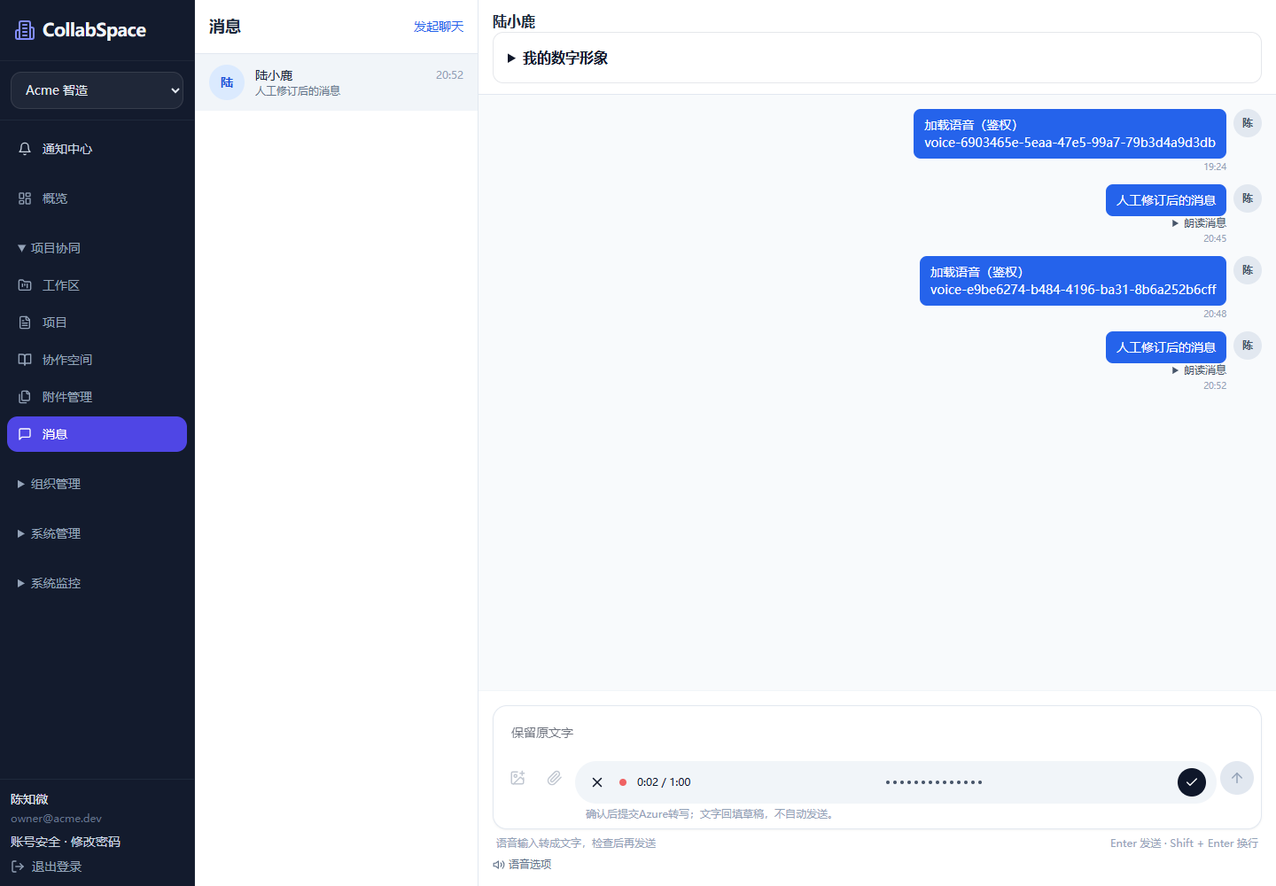
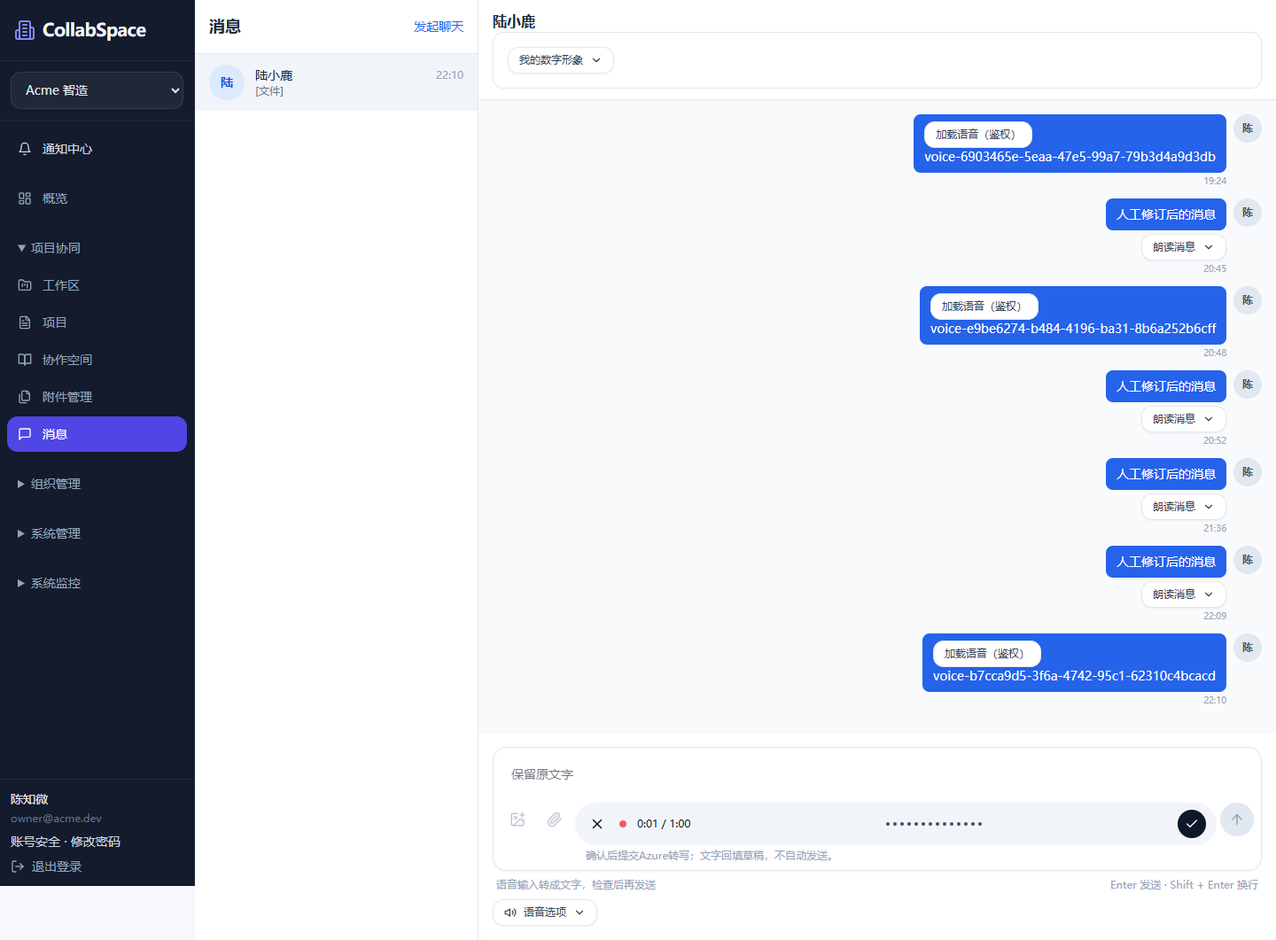
feat: make collaboration actions explicit buttons and remove inactive placeholders

diff --git a/apps/web/src/components/voice/VoiceTools.tsx b/apps/web/src/components/voice/VoiceTools.tsx
@@ -2,6 +2,8 @@
 import {useEffect,useRef,useState} from 'react';
 import {api} from '@/lib/api';
 import {useAuthStore} from '@/store/auth';
+import {Button,inputCls} from '@/components/ui';
+import {Disclosure} from '@/components/disclosure';
 import {toWav} from './audio';
 
 type Scope={projectId?:string;conversationId?:string};
@@ -75,16 +77,16 @@ function VoiceSession({scope,text,onTranscript,onSendAudio,active,onBusyChange}:
  const browserSpeak=()=>{stopPlayback();const u=new SpeechSynthesisUtterance(text.slice(0,4000));u.lang=language;u.onend=()=>setSpeaking(false);u.onerror=()=>{setSpeaking(false);setError('系统朗读失败');};setSpeaking(true);window.speechSynthesis.speak(u);};
  const sendAudio=async()=>{if(!blob||!onSendAudio||busy)return;const recordingBlob=blob;setBusy(true);setError('');const n=epoch.current;try{const wav=await toWav(blob);if(!alive.current||n!==epoch.current)return;await onSendAudio(new File([wav],'语音消息.wav',{type:'audio/wav'}));if(alive.current)setBlob(current=>current===recordingBlob?null:current);}catch(e){if(alive.current&&n===epoch.current)setError(errorText(e));}finally{if(alive.current&&n===epoch.current)setBusy(false);}};
  return <section aria-label="语音工具" className="space-y-2 rounded-lg border border-slate-200 bg-slate-50 p-3 text-sm text-slate-700 [&_button:disabled]:cursor-not-allowed [&_button:disabled]:opacity-40">
-  <div className="flex flex-wrap items-center gap-3"><label>语音语言 <select aria-label="语音语言" value={language} disabled={busy||recording} onChange={e=>{localeTouched.current=true;setLanguage(e.target.value);}}><option value="zh-CN">中文</option><option value="en-US">English</option></select></label>
-  {onTranscript&&<button type="button" disabled={!active||busy||!supported} onClick={recording?()=>release():()=>void start()}>{recording?'结束录音':'录音'}（最多60秒）</button>}
-  <button type="button" disabled={!active||busy||recording||!text.trim()||text.length>4000||!ready} onClick={()=>void run('TTS')}>生成语音朗读</button>
-  <button type="button" disabled={!active||busy||!text.trim()||typeof window==='undefined'||!('speechSynthesis' in window)} onClick={browserSpeak}>系统朗读（降级）</button>
-  <button type="button" disabled={!busy&&!speaking&&!recording} onClick={cancel}>停止语音</button></div>
+  <div className="flex flex-wrap items-center gap-3"><label>语音语言 <select className={inputCls+' mt-1'} aria-label="语音语言" value={language} disabled={busy||recording} onChange={e=>{localeTouched.current=true;setLanguage(e.target.value);}}><option value="zh-CN">中文</option><option value="en-US">English</option></select></label>
+  {onTranscript&&<Button variant="secondary" size="sm" type="button" disabled={!active||busy||!supported} onClick={recording?()=>release():()=>void start()}>{recording?'结束录音':'录音'}（最多60秒）</Button>}
+  {ready&&<Button variant="secondary" size="sm" type="button" disabled={!active||busy||recording||!text.trim()||text.length>4000} onClick={()=>void run('TTS')}>生成语音朗读</Button>}
+  <Button variant="secondary" size="sm" type="button" disabled={!active||busy||!text.trim()||typeof window==='undefined'||!('speechSynthesis' in window)} onClick={browserSpeak}>系统朗读（降级）</Button>
+  {(busy||speaking||recording)&&<Button variant="secondary" size="sm" type="button" onClick={cancel}>停止语音</Button>}</div>
   <p className="text-xs text-slate-500">{ready?'Azure语音已配置；点击转写/合成才提交内容。':'Azure语音未配置，转写与云合成不可用。'}录音先留在本页；转写可修改后手动发送。系统朗读可能使用浏览器在线服务，无精确嘴型。</p>
-  {url&&<div className="flex flex-wrap items-center gap-3"><audio ref={previewAudio} aria-label="录音试听" src={url} controls preload="metadata"/><button type="button" disabled={busy||!ready} onClick={()=>void run('STT')}>转写到正文</button>{onSendAudio&&<button type="button" disabled={busy} onClick={()=>void sendAudio()}>发送语音和当前文字</button>}<button type="button" disabled={busy} onClick={()=>{setBlob(null);pending.current=null;}}>丢弃录音</button></div>}
+  {url&&<div className="flex flex-wrap items-center gap-3"><audio ref={previewAudio} aria-label="录音试听" src={url} controls preload="metadata"/>{ready&&<Button variant="secondary" size="sm" type="button" disabled={busy} onClick={()=>void run('STT')}>转写到正文</Button>}{onSendAudio&&<Button variant="secondary" size="sm" type="button" disabled={busy} onClick={()=>void sendAudio()}>发送语音和当前文字</Button>}<Button variant="secondary" size="sm" type="button" disabled={busy} onClick={()=>{setBlob(null);pending.current=null;}}>丢弃录音</Button></div>}
   {busy&&<p role="status">语音处理中，请勿重复提交…</p>}{error&&<p role="alert" className="text-red-700">{error}</p>}
-  {error&&blob&&!busy&&<button type="button" onClick={()=>{pending.current=null;setError('已允许新建编号，再点击转写；可能产生新的供应商费用。');}}>已核查上次结果，允许新建转写请求</button>}
-  <details><summary className="cursor-pointer text-xs">语音任务与恢复</summary><button type="button" onClick={()=>void api.get('/voice/jobs',{params:scope}).then(r=>setHistory(r.data)).catch(()=>setError('任务记录加载失败'))}>刷新语音任务</button><p className="text-xs">任务保留24小时。UNKNOWN需先核查，不自动重试；刷新后原始本地录音不恢复。</p>{history.map(j=><div key={j.id} className="break-all text-xs">{j.kind} · {j.status} · {j.id}{j.text&&onTranscript&&<button type="button" onClick={()=>onTranscript(j.text)}>恢复转写文字</button>}</div>)}</details>
+  {error&&blob&&!busy&&<Button variant="secondary" size="sm" type="button" onClick={()=>{pending.current=null;setError('已允许新建编号，再点击转写；可能产生新的供应商费用。');}}>已核查上次结果，允许新建转写请求</Button>}
+  <Disclosure title="语音任务与恢复"><Button variant="secondary" size="sm" type="button" onClick={()=>void api.get('/voice/jobs',{params:scope}).then(r=>setHistory(r.data)).catch(()=>setError('任务记录加载失败'))}>刷新语音任务</Button><p className="text-xs">任务保留24小时。UNKNOWN需先核查，不自动重试；刷新后原始本地录音不恢复。</p>{history.map(j=><div key={j.id} className="break-all text-xs">{j.kind} · {j.status} · {j.id}{j.text&&onTranscript&&<Button variant="secondary" size="sm" type="button" onClick={()=>onTranscript(j.text)}>恢复转写文字</Button>}</div>)}</Disclosure>
  </section>;
 }
 
@@ -94,5 +96,5 @@ export function PrivateAudio({attachmentId}:{attachmentId:string}){
  useEffect(()=>{generation.current++;setUrl('');return()=>{generation.current++;};},[attachmentId,org]);
  useEffect(()=>()=>{if(url)URL.revokeObjectURL(url);},[url]);
  const load=async()=>{const n=generation.current;try{const r=await api.get(`/messages/attachments/${attachmentId}/download`,{responseType:'blob'});if(n===generation.current)setUrl(URL.createObjectURL(r.data));}catch{setError('无法加载语音，请检查权限后重试');}};
- return <div>{url?<audio aria-label="语音消息" src={url} controls/>:<button type="button" onClick={()=>void load()}>加载语音（鉴权）</button>}{error&&<p role="alert">{error}</p>}</div>;
+ return <div>{url?<audio aria-label="语音消息" src={url} controls/>:<Button variant="secondary" size="sm" type="button" onClick={()=>void load()}>加载语音（鉴权）</Button>}{error&&<p role="alert">{error}</p>}</div>;
 }

diff --git a/apps/web/src/components/documents/AssistantPanel.tsx b/apps/web/src/components/documents/AssistantPanel.tsx
@@ -5,6 +5,7 @@ import { useAuthStore } from '@/store/auth';
 import { Modal,Button,Card,inputCls } from '@/components/ui';
 import {FilePicker} from '@/components/file-picker';
 import {assistantTools} from './assistant-tools';
+import {Disclosure} from '@/components/disclosure';
 import {Sparkles} from 'lucide-react';
 import {VoiceTools} from '@/components/voice/VoiceTools';
 import {PersonaPanel} from '@/components/personas/PersonaPanel';
@@ -120,16 +121,16 @@ function AssistantWorkspace({org,user,initialMode,projectId,active,onProjectChan
     {project&&<VoiceTools scope={{projectId:project}} text={text} active={active} onTranscript={value=>{reset();setText(value);}}/>}
     <div className="flex flex-wrap items-center gap-3"><Button disabled={!project||text.trim().length<(translating?1:50)||(translating&&text.length>1200)||busy||mailBusy||configured!==true} onClick={generate}><Sparkles size={16}/>{busy?'处理中…':'生成'}</Button><span className="text-xs text-slate-500">{text.length}字；{translating&&text.length>1200?'超过翻译上限，请分段；':''}无自动重试</span></div>
     <p className="text-xs leading-5 text-slate-500">仅点击生成时调用 DeepSeek。{translating?'翻译每次最多1200字。':'摘要、行动项与邮件使用前6000字。'}生成前请核对资料。</p>
-    <details className="text-xs leading-5 text-slate-500"><summary className="cursor-pointer">用量、隐私与朗读说明</summary><p className="mt-2">摘要/行动项/邮件输出上限700 token；翻译1200 token。每个组织用户每小时10次，相同内容15分钟内复用，无自动付费重试。生成时将文本发送至DeepSeek。朗读前4000字，不消耗模型 token；系统语音可能使用浏览器供应商的在线服务。</p></details>
+    <Disclosure title="用量、隐私与朗读说明" className="text-xs leading-5 text-slate-500"><p className="mt-2">摘要/行动项/邮件输出上限700 token；翻译1200 token。每个组织用户每小时10次，相同内容15分钟内复用，无自动付费重试。生成时将文本发送至DeepSeek。朗读前4000字，不消耗模型 token；系统语音可能使用浏览器供应商的在线服务。</p></Disclosure>
     </Card>
     <div className="min-w-0 space-y-4">
     <PersonaPanel active={active}/>
-    {runtimeAvailable&&<div className="space-y-2"><p className="text-xs text-slate-500">受限协作助手运行时：只读项目事实与资料生成；状态保留15分钟，服务重启后不可恢复。不会自动发邮件。</p>{runEvent&&<AgentPersona key={runEvent.runId} name="协作助手" event={runEvent} skill={runSkill} onStopSpeech={stop}/>}<button type="button" className={button} disabled={!busy||!runId.current} onClick={()=>void cancelRun()}>取消当前任务</button></div>}
+    {runtimeAvailable&&<div className="space-y-2"><p className="text-xs text-slate-500">受限协作助手运行时：只读项目事实与资料生成；状态保留15分钟，服务重启后不可恢复。不会自动发邮件。</p>{runEvent&&<AgentPersona key={runEvent.runId} name="协作助手" event={runEvent} skill={runSkill} onStopSpeech={speaking?stop:undefined}/>}{busy&&runId.current&&<Button type="button" variant="secondary" onClick={()=>void cancelRun()}>取消当前任务</Button>}</div>}
     {error&&<p role="alert" className="text-red-700">{error}</p>}{info&&<p role="status" className="text-sm text-slate-600">{info}</p>}
-    {!result&&mode!=='email'&&<Card className="flex min-h-80 flex-col items-center justify-center gap-3 p-8 text-center"><Sparkles size={32} className="text-indigo-300"/><h3 className="font-semibold">生成结果将显示在这里</h3><p className="text-sm text-slate-500">上传或粘贴资料，点击生成。你可以编辑、复制和朗读结果。</p></Card>}
+
     {(result||mode==='email')&&<section className="space-y-3 rounded-xl border bg-white p-5"><h2 className="font-semibold">{mode==='email'?'邮件草稿（也可直接编写）':'生成结果'}</h2><label className="block">可修改结果<textarea aria-label="可修改结果" className={cls} disabled={mailBusy} rows={9} maxLength={10000} value={result} onChange={e=>{stop();setResult(e.target.value);}}/></label>
       {project&&<VoiceTools scope={{projectId:project}} text={result} active={active&&!mailBusy} onTranscript={value=>{stop();setResult(value);}}/>}
-      <div className="flex flex-wrap gap-3"><button className={button} disabled={!result.trim()} onClick={async()=>{try{await navigator.clipboard.writeText(result);setInfo('已复制');}catch{setError('复制失败，请选中文字手动复制');}}}>复制</button><button className={button} disabled={!speechAvailable||!result.trim()} onClick={speaking?()=>{if(window.speechSynthesis.paused)window.speechSynthesis.resume();else window.speechSynthesis.pause();}:speak}>{speaking?'暂停 / 继续朗读':'朗读结果'}</button><button className={button} disabled={!speaking} onClick={stop}>停止朗读</button></div>
+      <div className="flex flex-wrap gap-3"><button className={button} disabled={!result.trim()} onClick={async()=>{try{await navigator.clipboard.writeText(result);setInfo('已复制');}catch{setError('复制失败，请选中文字手动复制');}}}>复制</button><button className={button} disabled={!speechAvailable||!result.trim()} onClick={speaking?()=>{if(window.speechSynthesis.paused)window.speechSynthesis.resume();else window.speechSynthesis.pause();}:speak}>{speaking?'暂停 / 继续朗读':'朗读结果'}</button>{speaking&&<Button variant="secondary" onClick={stop}>停止朗读</Button>}</div>
       {mode==='email'&&<form className="space-y-3 border-t pt-4" onSubmit={e=>{e.preventDefault();const hash=JSON.stringify([project,to.trim(),subject.trim(),result.trim()]);if(mailUncertain&&mailIntent.current?.hash!==hash){setError('上次发送结果待核查，请先刷新记录；如需重试，请恢复原收件人、主题和正文，勿新建重复邮件。');return;}if(mailIntent.current?.hash!==hash)mailIntent.current={hash,id:crypto.randomUUID()};setPreview({to:to.trim(),subject:subject.trim(),text:result.trim(),projectId:project,requestId:mailIntent.current.id});}}><label className="block">收件人<input className={cls} disabled={mailBusy} type="email" required value={to} onChange={e=>setTo(e.target.value)}/></label><label className="block">主题<input className={cls} disabled={mailBusy} required maxLength={160} value={subject} onChange={e=>setSubject(e.target.value)}/></label><div className="flex flex-wrap gap-3"><button className={button} type="submit" disabled={!project||!result.trim()||!mailReady||mailBusy}>预览并发送邮件</button><button className={button} type="button" disabled={!project} onClick={()=>void loadHistory()}>刷新发送记录</button></div><p className="text-xs text-slate-500">{mailReady?'使用现有Resend服务，需有项目写入及邀请发送权限；每小时最多20封。':'未配置真实邮件服务，当前不能发信。'} 发送记录不保存收件人和正文；结果不确定时保留相同编号重试，不自动重发。</p></form>}
     </section>}
     {history.length>0&&<section className="rounded-xl border bg-white p-4"><h2 className="font-semibold">我的发送记录</h2>{history.map(r=><p className="break-all text-sm" key={r.id}>{r.id}：{r.status==='ACCEPTED'?'服务商已受理，尚不代表送达':r.status==='UNKNOWN'?'结果待核查，请勿重复新建':'处理中或中断待核查'} {r.provider_id||''}</p>)}</section>}

diff --git a/apps/web/src/components/personas/PersonaPanel.tsx b/apps/web/src/components/personas/PersonaPanel.tsx
@@ -1,6 +1,9 @@
 'use client';
 import {useEffect,useRef,useState} from 'react';
 import dynamic from 'next/dynamic';
+import {Button,inputCls} from '@/components/ui';
+import {Disclosure} from '@/components/disclosure';
+import {FilePicker} from '@/components/file-picker';
 import {api} from '@/lib/api';
 import {useAuthStore} from '@/store/auth';
 const AvatarPreview=dynamic(()=>import('./AvatarPreview'),{ssr:false});
@@ -9,16 +12,16 @@ export function PersonaPanel({active=true}:{active?:boolean}){
  return <PersonaSession key={`${org}:${user}`} active={active}/>;
 }
 function PersonaSession({active}:{active:boolean}){
- const [open,setOpen]=useState(false),[style,setStyle]=useState('cartoon'),[language,setLanguage]=useState('zh-CN'),[notice,setNotice]=useState(''),[model,setModel]=useState(''),[speaking,setSpeaking]=useState(false);
- const edited=useRef(false);
- useEffect(()=>{const c=new AbortController();void api.get('/voice/persona',{signal:c.signal}).then(r=>{if(!c.signal.aborted&&!edited.current){setStyle(r.data.style);setLanguage(r.data.locale);}}).catch(()=>{});return()=>c.abort();},[]);
+ const [open,setOpen]=useState(false),[language,setLanguage]=useState('zh-CN'),[notice,setNotice]=useState(''),[model,setModel]=useState(''),[speaking,setSpeaking]=useState(false);
+ const edited=useRef(false),savedStyle=useRef('cartoon');
+ useEffect(()=>{const c=new AbortController();void api.get('/voice/persona',{signal:c.signal}).then(r=>{if(!c.signal.aborted){savedStyle.current=r.data.style;if(!edited.current)setLanguage(r.data.locale);}}).catch(()=>{});return()=>c.abort();},[]);
  useEffect(()=>()=>{if(model)URL.revokeObjectURL(model);},[model]);
  useEffect(()=>{if(!active)setSpeaking(false);},[active]);
- const save=async()=>{try{await api.put('/voice/persona',{style,locale:language});setNotice('已保存当前组织的个人偏好；不会改变身份或权限');}catch{setNotice('保存失败，请检查数据库迁移或网络');}};
- return <details open={open} onToggle={e=>setOpen(e.currentTarget.open)} className="rounded-xl border bg-white p-4"><summary className="cursor-pointer font-semibold">我的数字形象</summary>{open&&<div className="mt-3 space-y-3">
-  <p className="text-xs text-slate-500">本人身份 · 卡通与真人为外观偏好；AI身份由运行时另行声明。</p>
-  <div className="flex flex-wrap gap-3"><label>风格 <select aria-label="形象风格" value={style} onChange={e=>{edited.current=true;setStyle(e.target.value);setSpeaking(false);}}><option value="cartoon">3D卡通</option><option value="realistic">真人风格（待配置）</option></select></label><label>默认语言 <select aria-label="形象默认语言" value={language} onChange={e=>{edited.current=true;setLanguage(e.target.value);}}><option value="zh-CN">中文</option><option value="en-US">English</option></select></label><button type="button" onClick={()=>void save()}>保存形象偏好</button></div>
-  {style==='cartoon'?<><AvatarPreview active={active&&open} speaking={speaking} vrmUrl={model||undefined}/><p className="text-xs">内置原创几何人物；可本地预览你有使用权的VRM模型，文件不上传。云语音播放时按音量驱动嘴部，不是精确嘴型。</p><label className="block text-xs">预览VRM模型 <input aria-label="预览VRM模型" type="file" accept=".vrm" onChange={e=>{const f=e.target.files?.[0];if(f){if(f.size>10*1024*1024){setNotice('模型最大10MB');return;}setModel(URL.createObjectURL(f));}e.target.value='';}}/></label><button type="button" onClick={()=>setSpeaking(!speaking)}>{speaking?'停止动作预览':'预览讲话动作（无音频）'}</button></>:<p role="status" className="rounded-lg bg-amber-50 p-3 text-sm">真人服务尚未配置，当前不能生成真人视频。</p>}
-  <p className="text-xs text-slate-500">Agent形象：尚未启用。</p>{notice&&<p role="status">{notice}</p>}
- </div>}</details>;
+ const save=async()=>{try{await api.put('/voice/persona',{style:savedStyle.current,locale:language});setNotice('已保存当前组织的个人偏好；不会改变身份或权限');}catch{setNotice('保存失败，请检查数据库迁移或网络');}};
+ return <Disclosure title="我的数字形象" open={open} onOpenChange={value=>{setOpen(value);if(!value)setSpeaking(false);}} unmountOnClose className="rounded-xl border bg-white p-4">{open&&<div className="mt-3 space-y-3">
+  <p className="text-xs text-slate-500">本人形象 · 3D卡通</p>
+  <div className="flex flex-wrap gap-3"><label>默认语言 <select className={inputCls+' mt-1'} aria-label="形象默认语言" value={language} onChange={e=>{edited.current=true;setLanguage(e.target.value);}}><option value="zh-CN">中文</option><option value="en-US">English</option></select></label><Button variant="secondary" size="sm" type="button" onClick={()=>void save()}>保存形象偏好</Button></div>
+  <><AvatarPreview active={active&&open} speaking={speaking} vrmUrl={model||undefined}/><p className="text-xs">内置原创几何人物；可本地预览你有使用权的VRM模型，文件不上传。云语音播放时按音量驱动嘴部，不是精确嘴型。</p><FilePicker label="预览VRM模型" accept=".vrm" hint="本地预览，最大10MB" onFile={f=>{if(f.size>10*1024*1024){setNotice('模型最大10MB');return;}setModel(URL.createObjectURL(f));}}/><Button variant="secondary" size="sm" type="button" onClick={()=>setSpeaking(!speaking)}>{speaking?'停止动作预览':'预览讲话动作（无音频）'}</Button></>
+  {notice&&<p role="status">{notice}</p>}
+ </div>}</Disclosure>;
 }

diff --git a/apps/web/src/components/personas/AgentPersona.tsx b/apps/web/src/components/personas/AgentPersona.tsx
@@ -1,5 +1,7 @@
 'use client';
 import {useEffect,useRef,useState} from 'react';
+import {Button} from '@/components/ui';
+import {Disclosure} from '@/components/disclosure';
 import {applyPersonaEvent,PersonaEvent} from './persona-events';
 const labels={idle:'待命',listening:'聆听',thinking:'思考',executing:'执行中','awaiting-confirmation':'等待确认',speaking:'播报中',completed:'已完成',failed:'失败',cancelled:'已取消'};
 const skills:Record<string,string>={summary:'资料摘要',actions:'行动项提取',email:'邮件草稿','translate-en':'中译英','translate-zh':'英译中'};
@@ -8,5 +10,5 @@ export function AgentPersona({name,event,skill,onStopSpeech}:{name:string;event:
  const [current,setCurrent]=useState<PersonaEvent|null>(null),[error,setError]=useState('');
  const latest=useRef<PersonaEvent|null>(null);
  useEffect(()=>{if(!event)return;try{latest.current=applyPersonaEvent(latest.current,event);setCurrent(latest.current);setError('');}catch{setError('运行事件无效，未更新状态');}},[event]);
- return <section aria-label="Agent身份卡" className="space-y-2 rounded-xl border border-indigo-100 bg-indigo-50 p-4 text-sm"><div className="flex items-center gap-2"><strong>{name}</strong><span className="rounded-full bg-indigo-100 px-2 py-0.5 text-xs">AI Agent</span><span className="ml-auto">{current?labels[current.state]:'尚未连接运行时'}</span></div>{skill&&<p className="text-slate-600">{skills[skill]||skill}</p>}{current?.state==='completed'&&<p>结果已生成，可在下方查看和编辑。</p>}{onStopSpeech&&<button type="button" onClick={onStopSpeech} className="text-xs text-indigo-700">停止播报（不取消任务）</button>}{current&&<details className="text-xs text-slate-500"><summary className="cursor-pointer">运行详情</summary><p className="mt-2 break-all">运行编号：{current.runId}</p>{current.resultRef&&<p className="break-all">结果引用：{current.resultRef}</p>}</details>}{error&&<p role="alert">{error}</p>}</section>;
+ return <section aria-label="Agent身份卡" className="space-y-2 rounded-xl border border-indigo-100 bg-indigo-50 p-4 text-sm"><div className="flex items-center gap-2"><strong>{name}</strong><span className="rounded-full bg-indigo-100 px-2 py-0.5 text-xs">AI Agent</span><span className="ml-auto">{current?labels[current.state]:'尚未连接运行时'}</span></div>{skill&&<p className="text-slate-600">{skills[skill]||skill}</p>}{current?.state==='completed'&&<p>结果已生成，可在下方查看和编辑。</p>}{onStopSpeech&&<Button type="button" variant="secondary" size="sm" onClick={onStopSpeech}>停止播报（不取消任务）</Button>}{current&&<Disclosure title="运行详情" className="text-xs text-slate-500"><p className="mt-2 break-all">运行编号：{current.runId}</p>{current.resultRef&&<p className="break-all">结果引用：{current.resultRef}</p>}</Disclosure>}{error&&<p role="alert">{error}</p>}</section>;
 }

diff --git a/apps/web/src/components/file-picker.tsx b/apps/web/src/components/file-picker.tsx
@@ -1,6 +1,7 @@
 'use client';
 import {useId,useRef,useState} from 'react';
 import {UploadCloud,FileCheck2} from 'lucide-react';
+import {Button} from '@/components/ui';
 
 /** Keeps the native accessible input and file dialog; adds one shared drop target. */
 export function FilePicker({label,accept,disabled,onFile,hint,required=false}:{label:string;accept?:string;disabled?:boolean;onFile:(file:File)=>void;hint?:string;required?:boolean}) {
@@ -8,10 +9,10 @@ export function FilePicker({label,accept,disabled,onFile,hint,required=false}:{l
  const choose=(file?:File)=>{if(!file||disabled)return;setName(file.name);onFile(file);if(!required&&input.current)input.current.value='';};
  return <div onDragOver={e=>{e.preventDefault();if(!disabled)setDrag(true);}} onDragLeave={()=>setDrag(false)} onDrop={e=>{e.preventDefault();setDrag(false);if(disabled)return;const file=e.dataTransfer.files[0];if(file){const dt=new DataTransfer();dt.items.add(file);if(input.current)input.current.files=dt.files;choose(file);}}} className={'relative rounded-xl border-2 border-dashed p-5 transition focus-within:ring-2 focus-within:ring-indigo-500 '+(disabled?'border-slate-200 bg-slate-50 opacity-60':drag?'border-indigo-500 bg-indigo-100':'border-indigo-200 bg-indigo-50/50 hover:border-indigo-400')}>
   <input ref={input} id={id} aria-label={label} aria-describedby={id+'-hint'} type="file" accept={accept} disabled={disabled} required={required} className="sr-only" onChange={e=>choose(e.target.files?.[0])}/>
-  <label htmlFor={id} className={'flex min-w-0 items-center gap-3 '+(disabled?'cursor-not-allowed':'cursor-pointer')}>
+  <Button type="button" variant="secondary" aria-controls={id} disabled={disabled} onClick={()=>input.current?.click()} className="flex w-full min-w-0 justify-start gap-3 text-left">
    <span className="shrink-0 rounded-xl bg-white p-3 text-indigo-600">{name?<FileCheck2 size={24}/>:<UploadCloud size={24}/>}</span>
    <span className="min-w-0"><span className="block break-all text-sm font-semibold text-indigo-800">{name||'点击选择或拖入文件'}</span><span className="mt-1 block text-xs text-slate-500">{name?'点击可重新选择':label}</span></span>
-  </label>
+  </Button>
   <p id={id+'-hint'} className="mt-3 text-xs leading-5 text-slate-500">{hint}</p>
  </div>;
 }

diff --git a/apps/web/src/components/im/MessageComposer.tsx b/apps/web/src/components/im/MessageComposer.tsx
@@ -1,9 +1,10 @@
-'use client';
+'use client';
 import { useState, useRef, useEffect } from 'react';
 import { api } from '@/lib/api';
 import { useImStore } from '@/store/im';
 import { VoiceTools } from '@/components/voice/VoiceTools';
 import { useAuthStore } from '@/store/auth';
+import {Disclosure} from '@/components/disclosure';
 import {DictationInput} from '@/components/voice/DictationInput';
 import {ArrowUp,ImagePlus,Paperclip,Volume2} from 'lucide-react';
 
@@ -106,7 +107,7 @@ export default function MessageComposer({ conversationId }: { conversationId: st
       </div>
       </div>
       <div className="mt-2 flex items-center justify-between gap-3 px-1 text-xs text-slate-400"><span>语音输入转成文字，检查后再发送</span><span className="hidden sm:inline">Enter 发送 · Shift + Enter 换行</span></div>
-      <details className="mt-2"><summary className="flex w-fit cursor-pointer list-none items-center gap-1 text-xs text-slate-500"><Volume2 size={14}/>语音选项</summary><div className="mt-2"><VoiceTools scope={{conversationId}} text={text} active={!dictationBusy&&!sending} onBusyChange={setLegacyBusy} onTranscript={acceptTranscript} onSendAudio={async file=>{
+      <Disclosure className="mt-2" title={<><Volume2 size={14}/>语音选项</>}><div><VoiceTools scope={{conversationId}} text={text} active={!dictationBusy&&!sending} onBusyChange={setLegacyBusy} onTranscript={acceptTranscript} onSendAudio={async file=>{
         if(sendingRef.current)throw Error('消息正在发送');
         sendingRef.current=true;setSending(true);
         try{
@@ -122,7 +123,7 @@ export default function MessageComposer({ conversationId }: { conversationId: st
           voiceIntent.current=null;
           appendMessage(response.data);setText('');
         }finally{sendingRef.current=false;setSending(false);}
-      }}/></div></details>
+      }}/></div></Disclosure>
       <input
         ref={imageInputRef}
         type="file"

diff --git a/apps/web/src/components/im/MessageBubble.tsx b/apps/web/src/components/im/MessageBubble.tsx
@@ -1,5 +1,5 @@
 'use client';
-import {useState} from 'react';
+import {Disclosure} from '@/components/disclosure';
 import { useAuthStore } from '@/store/auth';
 import type { Message } from '@/store/im';
 import { useImStore } from '@/store/im';
@@ -10,7 +10,6 @@ const apiBase = (process.env.NEXT_PUBLIC_API_URL || 'http://localhost:3001/api/v
 export default function MessageBubble({ message }: { message: Message }) {
   const me = useAuthStore((s) => s.user);
   const conversationId=useImStore(s=>s.currentConversationId);
-  const [speechOpen,setSpeechOpen]=useState(false);
   const isMe = message.senderId === me?.id;
   const senderName = message.senderName || message.sender?.name || '';
 
@@ -49,7 +48,7 @@ export default function MessageBubble({ message }: { message: Message }) {
             </a>
           )}
         </div>
-        {message.type==='TEXT'&&conversationId&&<details onToggle={e=>setSpeechOpen(e.currentTarget.open)} className="text-slate-600"><summary className="cursor-pointer text-xs">朗读消息</summary>{speechOpen&&<VoiceTools scope={{conversationId}} text={message.content}/>}</details>}
+        {message.type==='TEXT'&&conversationId&&<Disclosure title="朗读消息" className="mt-1 text-slate-600" unmountOnClose><VoiceTools scope={{conversationId}} text={message.content}/></Disclosure>}
         <span className="text-[10px] text-slate-400 mt-0.5">
           {new Date(message.createdAt).toLocaleTimeString('zh-CN', { hour: '2-digit', minute: '2-digit' })}
         </span>

diff --git a/apps/web/src/components/voice/DictationInput.tsx b/apps/web/src/components/voice/DictationInput.tsx
@@ -50,6 +50,7 @@ export function DictationInput({conversationId,active=true,onTranscript,onBusyCh
    try{const ac=new AudioContext(),analyser=ac.createAnalyser();context.current=ac;ac.createMediaStreamSource(captured).connect(analyser);analyser.fftSize=256;const data=new Uint8Array(256);let last=0;const tick=()=>{if(!alive.current||n!==epoch.current||context.current!==ac)return;if(performance.now()-last>80){analyser.getByteTimeDomainData(data);setLevel(Math.min(1,Math.sqrt(data.reduce((sum,v)=>sum+((v-128)/128)**2,0)/data.length)*6));last=performance.now();}frame.current=requestAnimationFrame(tick);};tick();void ac.resume().catch(()=>{});}catch{/* Recording works even if a visual analyser is unavailable. */}
   }catch{if(alive.current&&n===epoch.current){release();setStage('idle');setError('无法使用麦克风，请允许浏览器访问后重试。');}}
  };
+ if(ready===false)return null;
  return <div className="min-w-0 flex-1">
   {stage==='idle'?<button type="button" aria-label="语音输入" title="单次最多60秒，确认后转写为可编辑文字" disabled={!active||ready===null} onClick={()=>void start()} className="flex h-9 items-center gap-2 rounded-full px-3 text-slate-600 hover:bg-slate-100 disabled:opacity-40"><Mic size={18}/><span className="hidden sm:inline">语音输入</span></button>:
    <div aria-label="语音输入状态" className="flex items-center gap-3 rounded-full bg-slate-100 px-3 py-2">

diff --git a/apps/web/src/components/disclosure.tsx b/apps/web/src/components/disclosure.tsx
@@ -1,0 +1,10 @@
+'use client';
+import {useId,useState,type ReactNode} from 'react';
+import {ChevronDown} from 'lucide-react';
+import {Button} from '@/components/ui';
+
+/** An explicit keyboard-accessible action for expanding optional tools. */
+export function Disclosure({title,children,className='',open:controlled,onOpenChange,unmountOnClose=false}:{title:ReactNode;children:ReactNode;className?:string;open?:boolean;onOpenChange?:(open:boolean)=>void;unmountOnClose?:boolean}){
+ const [expanded,setExpanded]=useState(false),id=useId(),open=controlled??expanded;
+ return <div className={className}><Button type="button" variant="secondary" size="sm" aria-expanded={open} aria-controls={id} onClick={()=>{setExpanded(!open);onOpenChange?.(!open);}}>{title}<ChevronDown aria-hidden="true" size={14} className={open?'rotate-180':''}/></Button><div id={id} hidden={!open} className={open?'mt-3':''}>{(!unmountOnClose||open)&&children}</div></div>;
+}

diff --git a/docs/collaboration/ACTION-UI.md b/docs/collaboration/ACTION-UI.md
@@ -1,0 +1,26 @@
+# 可操作区域与占位内容
+
+2026-10-25用户要求：功能区域按钮化，不提供实际功能的元素移除。本轮覆盖IM、语音/形象、协作助手及共享文件选择控件；不替换Office引擎内部工具栏。
+
+## P-AUI / BR-AUI
+
+- 展开、播放、录音、任务取消、文件选择等操作使用明确按钮；静态名称、状态和必要的权限/隐私说明仍作为文字。
+- 没有供应商配置的听写、云朗读和真人风格入口不显示。语音选项保留简短的未配置说明，不静默使用其他供应商。
+- 移除“Agent形象尚未启用”和大面积空结果卡；停止/取消按钮仅在存在相应操作时出现。资料不足、任务处理中等暂时禁用状态继续保留，避免布局不明和重复操作。
+
+## D-AUI
+
+- Disclosure复用Button，原生键盘Enter/Space、aria-expanded/aria-controls明确对应内容。形象与逐消息语音关闭时卸载；主语音工具保持状态，避免收起导致录音遗失。
+- FilePicker以真实按钮打开原生文件选择器，保留原生input、拖放、文件名和大小校验；沿用共享业务回调。
+- 云功能仅改变前端展示，服务端鉴权、组织/RLS、供应商未配置拒绝仍为权威。未配置不显示听写，不把可见性作为安全边界。
+- 仅提供实际可预览的3D卡通；隐藏真人选项不删除已有服务端外观偏好。保存默认语言仍保留原style；未来真人功能需独立验收后再恢复入口。
+- Agent状态仍由运行时返回；停止播报只在正在系统朗读时提供，取消业务任务仅在运行中提供。
+
+## AT-AUI
+
+1. IM按钮可键盘展开、收起，关闭3D预览卸载画布；未配置操作/占位文字不存在。
+2. 文件选择按钮实际打开系统选择器，超大VRM保持本地并报错；原录音取消/丢弃释放轨道且不外发。
+3. 助手空闲无取消/停止按钮；显式运行时替身验证运行中取消、完成后编辑结果和展开收据，不调用模型或邮件服务。
+4. 原听写五项、原音双账号鉴权、邮件确认预览和语音旧结果失效继续回归。真实Azure/真人服务未配置，仍不计真实效果验收。
+
+命令、失败修复、发布身份、线上成绩见[本轮验收](../../evidence/collaboration/ACTION-UI-2026-10-25.md)。

diff --git a/evidence/collaboration/ACTION-UI-2026-10-25.md b/evidence/collaboration/ACTION-UI-2026-10-25.md
@@ -1,0 +1,24 @@
+# 功能入口按钮化验收
+
+基线709ab2a，2026-10-25。工作树初始干净；仅修改本项目，前端调整，无API/数据库变更。
+
+## 改动
+
+IM语音选项、逐消息朗读、个人形象、任务恢复、运行详情与隐私说明使用按钮展开；语音工具复用按钮样式；文件/VRM选择使用真实按钮。未配置听写/云朗读、真人选择、未启用Agent占位、大空结果卡移除；停止/取消按真实状态显示。必要的失败、隐私、身份及配置说明保留。
+
+## 测试与修复
+
+- 首轮浏览器12项：11通过、1失败。新增文件按钮的aria-label与原生input部分匹配造成严格定位冲突；移除多余按钮label，保留可见文字名称，并增加实际filechooser事件验证，没有删超大模型不外发断言。
+- action-ui.spec.cjs助手流程使用明确的浏览器运行时替身；真实登录与项目读取保留，生成/取消/完成不冒充真实模型成绩。真实DeepSeek已在上轮单独验证，本轮不重复付费调用。
+
+## 未验证边界
+
+真实Azure STT/TTS、真人视频、有效授权VRM、完整持久Agent仍未验收。没有真实测试发信。Office引擎工具栏、全站所有管理页及所有移动浏览器不在本轮全量验收范围。
+
+## PASSED：本地最终验证
+
+- `pnpm --filter @teamspace/web run test`：19/19，8.6秒。
+- `pnpm --filter @teamspace/web exec tsc --noEmit --incremental false`：退出0。
+- 设置COLLAB_BROWSER_CONFIG=.test-runs/voice-persona-final/config.json，Playwright依次运行action-ui、im-dictation、voice-boundaries、voice-persona：12/12，3.3分钟；最终结果.test-runs/action-ui-local-final/.last-run.json为passed、failedTests为空。
+- 包含真实原生filechooser、Enter/Space展开、3D卸载、超大模型不外发、PCM原音/双账号权限、语音替身、旧音频失效与邮件无外发；接口替身不计真实供应商成绩。截图action-ui-local-im.png及action-ui-local-assistant-fixture.png已人工检查。
+- 本地仍无Redis6399，既有调度日志报连接拒绝；本轮不计Redis/后台队列验收。

diff --git a/docs/collaboration/IMPLEMENTATION_PROMPT.md b/docs/collaboration/IMPLEMENTATION_PROMPT.md
@@ -1,5 +1,7 @@
 # 可直接交给开发 Agent 的 Prompt
 
+2026-10-25入口整理：操作区域按钮化、未提供功能的占位项移除，P/BR/D/AT-AUI见[功能入口规范](ACTION-UI.md)，范围和实际成绩见[验收记录](../../evidence/collaboration/ACTION-UI-2026-10-25.md)。
+
 2026-10-25后续入口：按[听写体验](VOICE-DICTATION-UX.md)、[供应商决策](SPEECH-PROVIDER-SELECTION.md)、[最新验收发布](../../evidence/collaboration/DICTATION-RUNTIME-2026-10-25.md)继续。当前Azure海内外统一选型、OpenAI仅未来海外适配；没有Azure/真人凭据，不编造真实语音/视频验收。受限助手真实DeepSeek已验证，后续需补持久运行、真实语音、真人视频、货币预算和定时物理清理。
 
 2026-10-25：语音与数字形象规划已确定，涵盖IM、邮件及未来Agent/Skill；采用独立模块融入现有体系。需求、技术栈、范围及AT-VP01–08见 [语音与数字形象](VOICE-PERSONA.md)。已完成部分本地实现，实际通过项、供应商阻塞与未完成范围见[本地验收报告](../../evidence/collaboration/VOICE-PERSONA-2026-10-25.md)，不代表完整验收或生产发布。
